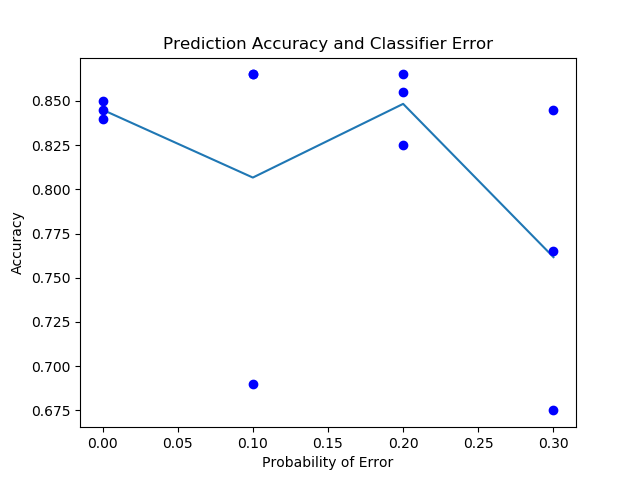
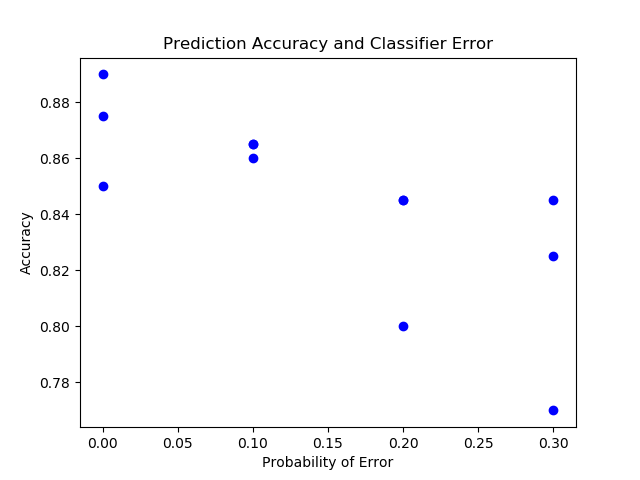
Plot code for average comm time

diff --git a/analysis/create_plots.py b/analysis/create_plots.py
@@ -71,26 +71,17 @@ if False:
 # Plot 1
 # accuracy and error probability
 if True:
-    starting_experiment = 0
+    starting_experiment = 4
     num_exp = 4
     num_runs = 3 
     accs = np.zeros((num_exp, num_runs))
-    #total_acc = num_exp*[0]
     probs = [0.0, 0.1, 0.2, 0.3]
     for exp in range(num_exp):
         for run in range(num_runs):
             filename = "../results/results_experiment"+str(starting_experiment+exp)+'_run'+str(run)+'.csv'
             print(filename)
             results = read_in_csv(filename)
-            #print('sample results:')
-            #for result in results[:10]:
-            #    print(result)
-            #print()
             accs[exp, run] = accuracy(results, labels)
-            #print(acc)
-            #print()
-            #total_acc[exp] += acc
-    #accs = [acc / num_runs for acc in total_acc]
 
     # plot as lines
     plt.plot(probs, np.mean(accs, axis=1), label='accuracies')
@@ -98,7 +89,6 @@ if True:
     plt.ylabel('Average Accuracy')
     plt.title('Prediction Accuracy and Classifier Error')
     plt.savefig('plot_1_single_line.png')
-    #plt.clf()
 
     # plot individual points
     for run in range(num_runs):
@@ -106,30 +96,45 @@ if True:
     plt.xlabel('Probability of Error')
     plt.ylabel('Accuracy')
     plt.title('Prediction Accuracy and Classifier Error')
+    plt.savefig('plot_1_line_and_points.png')
+    plt.clf()
+
+    # plot just the points
+    for run in range(num_runs):
+        plt.plot(probs, accs[:, run], 'bo')
+    plt.xlabel('Probability of Error')
+    plt.ylabel('Accuracy')
+    plt.title('Prediction Accuracy and Classifier Error')
     plt.savefig('plot_1_individual_points.png')
+    plt.clf()
 
 # Plot 2
 # same as above, except random delay
-if False:
-    starting_experiment = 0
+if True:
+    starting_experiment = 8
     num_exp = 4
     num_runs = 3 
-    total_acc = num_exp*[0]
-    delay_mean = [0.1, 0.2, 0.3, 0.4]
+    times = np.zeros((num_exp, num_runs))
+    probs = [0.0, 0.1, 0.2, 0.3]
     for exp in range(num_exp):
         for run in range(num_runs):
             filename = "../results/results_experiment"+str(starting_experiment+exp)+'_run'+str(run)+'.csv'
             results = read_in_csv(filename)
-            acc = accuracy(results, labels)
-            total_acc[exp] += acc
-    accs = [acc / num_runs for acc in total_acc]
+            times[exp, run] = average_time(results)
 
-    plt.plot(delay_mean, accs, label='accuracies')
-    plt.xlabel('Random Delay Mean (s)')
-    plt.ylabel('Average Accuracy')
+
+    # plot individual points
+    for run in range(num_runs):
+        plt.plot(probs, times[:, run], 'bo')
+    #plt.savefig('plot_2_points.png')
+
+    # plot lines and points
+    plt.plot(probs, np.mean(times, axis=1), label='times')
+    plt.xlabel('Mean Random Delay')
+    plt.ylabel('Avg. Comm. Time')
     plt.title('Random Delay and Classifier Error')
-    #plt.legend()
-    plt.savefig('plot_2.png')
+    plt.savefig('plot_2_line_and_points.png')
+    plt.clf()
 
 # Plot 3
 # Communication time, highlighting cache differences
